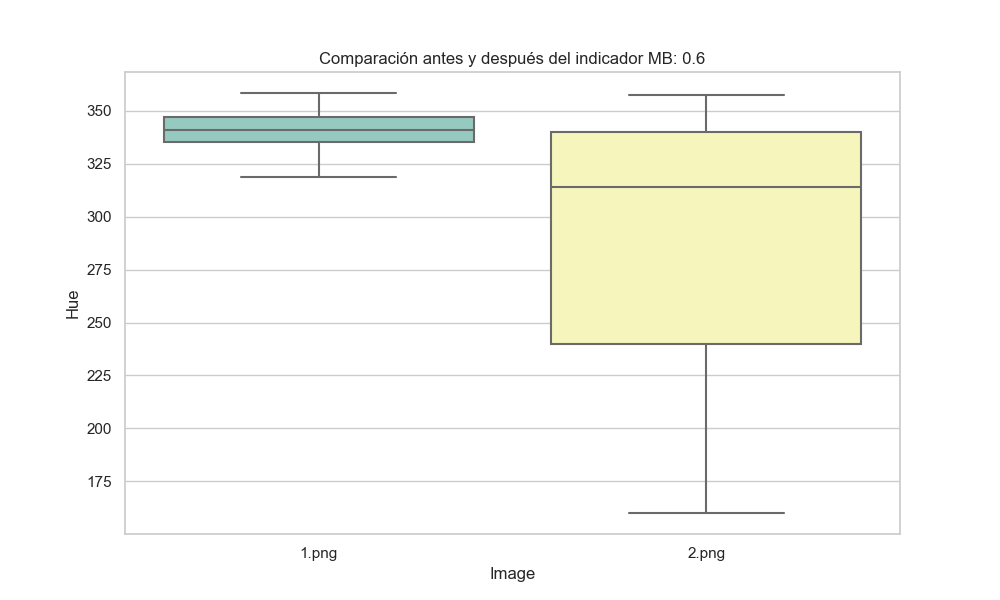
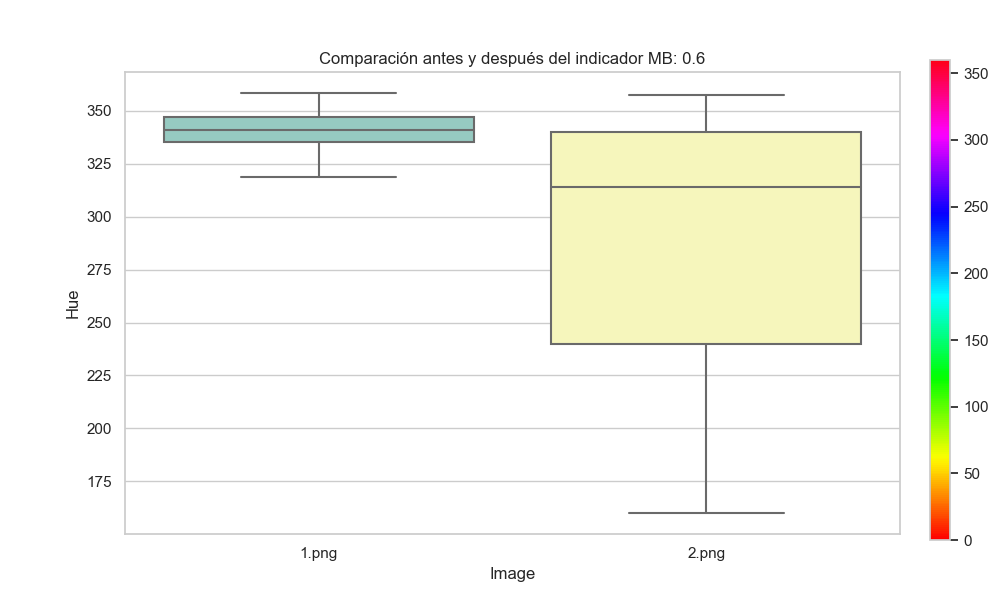
add hue bar and replace boxplots with the new generation

Changed region(s): [[0.93, 0.09, 0.992, 0.9]]

diff --git a/script.py b/script.py
@@ -4,6 +4,9 @@ from PIL import Image
 import colorsys
 import seaborn as sns
 import matplotlib.pyplot as plt
+import matplotlib as mpl
+import matplotlib.colors as mcolors
+import matplotlib.colorbar as mcolorbar
 
 topdir = "fotos tesis finales"  # Replace with the path to your directory
 
@@ -50,23 +53,35 @@ for folder in os.listdir(topdir):
                 # Define a mask for values within 1.5*IQR of Q1 and Q3
                 mask = ((Q1 - 1.5 * IQR <= hue_values) & (hue_values <= Q3 + 1.5 * IQR))
 
-                # append the hue values to the list
-                hue_values_list.append(hue_values)
+                # Apply mask to get hue values without outliers
+                hue_values_no_outliers = hue_values[mask]
                 
+                # append the hue values to the list
+                hue_values_list.append(hue_values_no_outliers)
 
-        # Plot the boxplot
-        plt.figure(figsize=(10, 6))
-        sns.set(style="whitegrid")
-        box_plot = sns.boxplot(data=hue_values_list, palette="Set3")
+                
+    # Create the figure and axes
+    fig, ax = plt.subplots(figsize=(10, 6))
 
-        # plot title MB measurement comes from folder name
-        measurement = int(folder[2:])
+    # Plot the boxplot on the axes
+    sns.set(style="whitegrid")
+    box_plot = sns.boxplot(ax=ax, data=hue_values_list, palette="Set3")
 
-        # You can set your own labels here
-        box_plot.set(
-            xlabel="Image",  # Modify as needed
-            ylabel="Hue",
-            title=f"Comparación antes y después del indicador MB: {measurement/10}",
-        )
-        plt.xticks([0, 1], ["1.png", "2.png"])  # Modify as needed
-        plt.savefig(os.path.join(folder_path, "boxplot.png"))
+    # plot title MB measurement comes from folder name
+    measurement = int(folder[2:])
+
+    # You can set your own labels here
+    box_plot.set(
+        xlabel="Image",  # Modify as needed
+        ylabel="Hue",
+        title=f"Comparación antes y después del indicador MB: {measurement/10}",
+    )
+    plt.xticks([0, 1], ["1.png", "2.png"])  # Modify as needed
+
+    # Create colorbar
+    cmap = mpl.cm.hsv  # Use a standard HSV colormap
+    norm = mpl.colors.Normalize(vmin=0, vmax=360)  # Range of your hue values
+    cax = fig.add_axes([0.93, 0.1, 0.02, 0.8])  # Adjust the size and position of the colorbar
+    cb = mcolorbar.ColorbarBase(cax, cmap=cmap, norm=norm, orientation='vertical')
+
+    plt.savefig(os.path.join(folder_path, "boxplot.png"))
